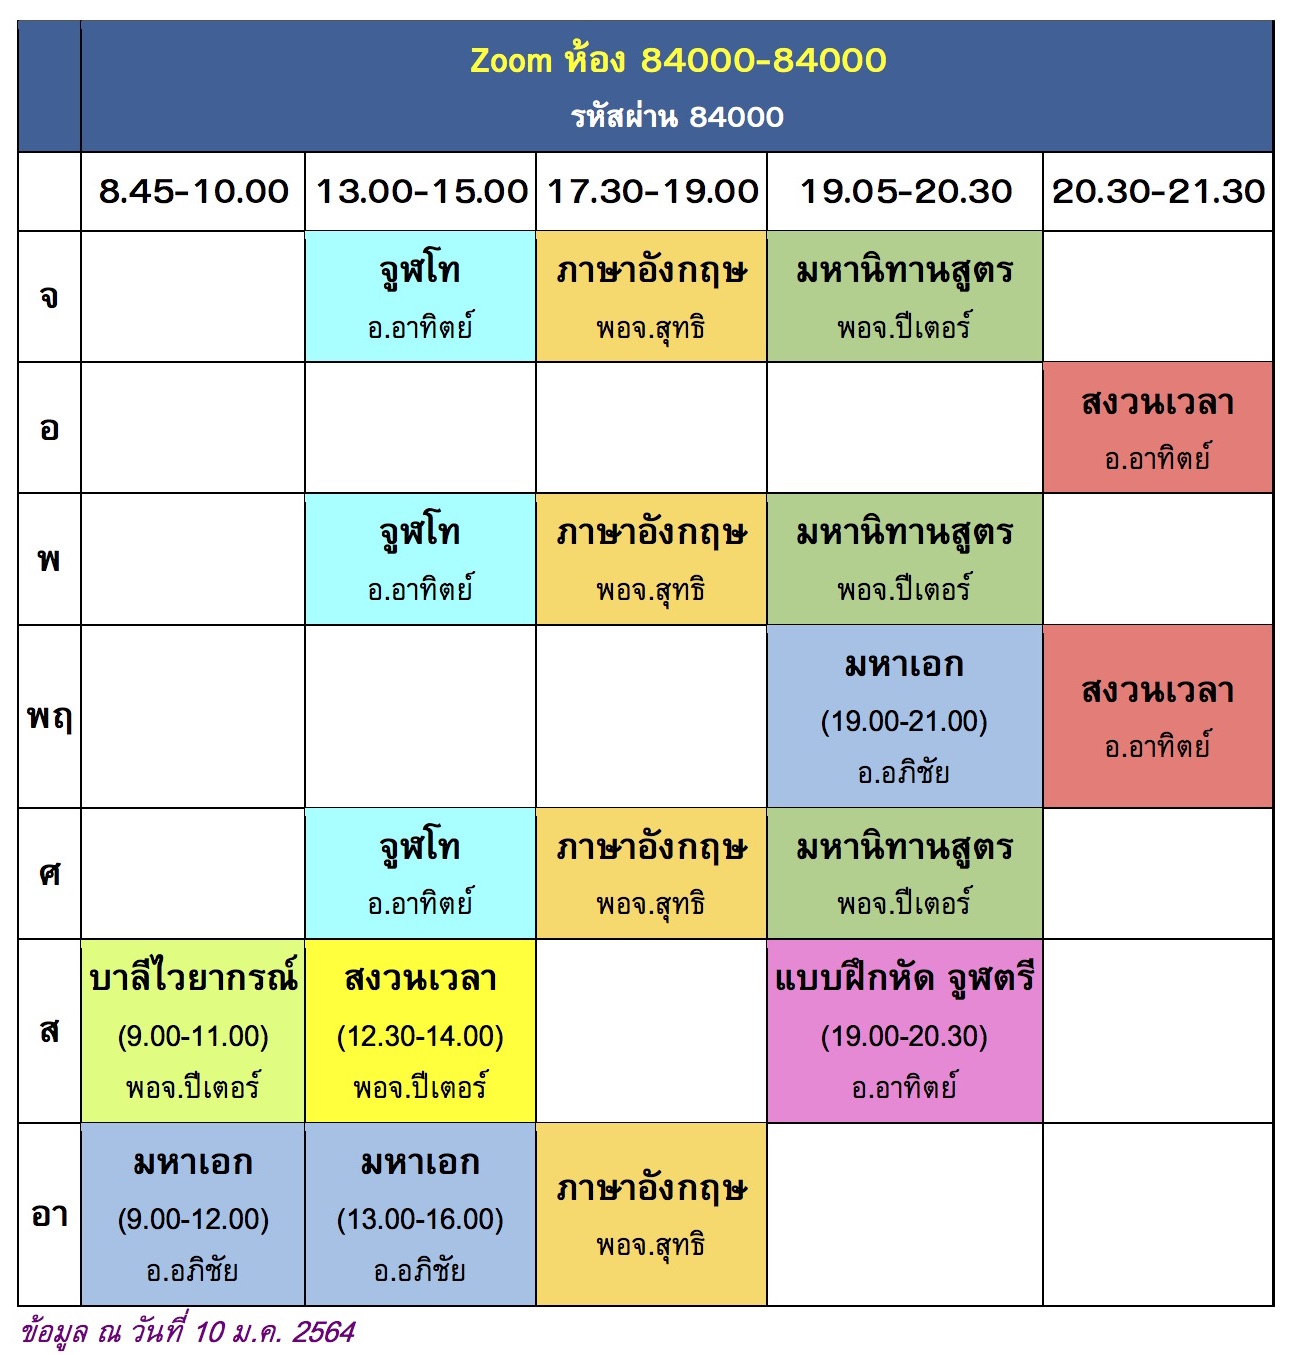
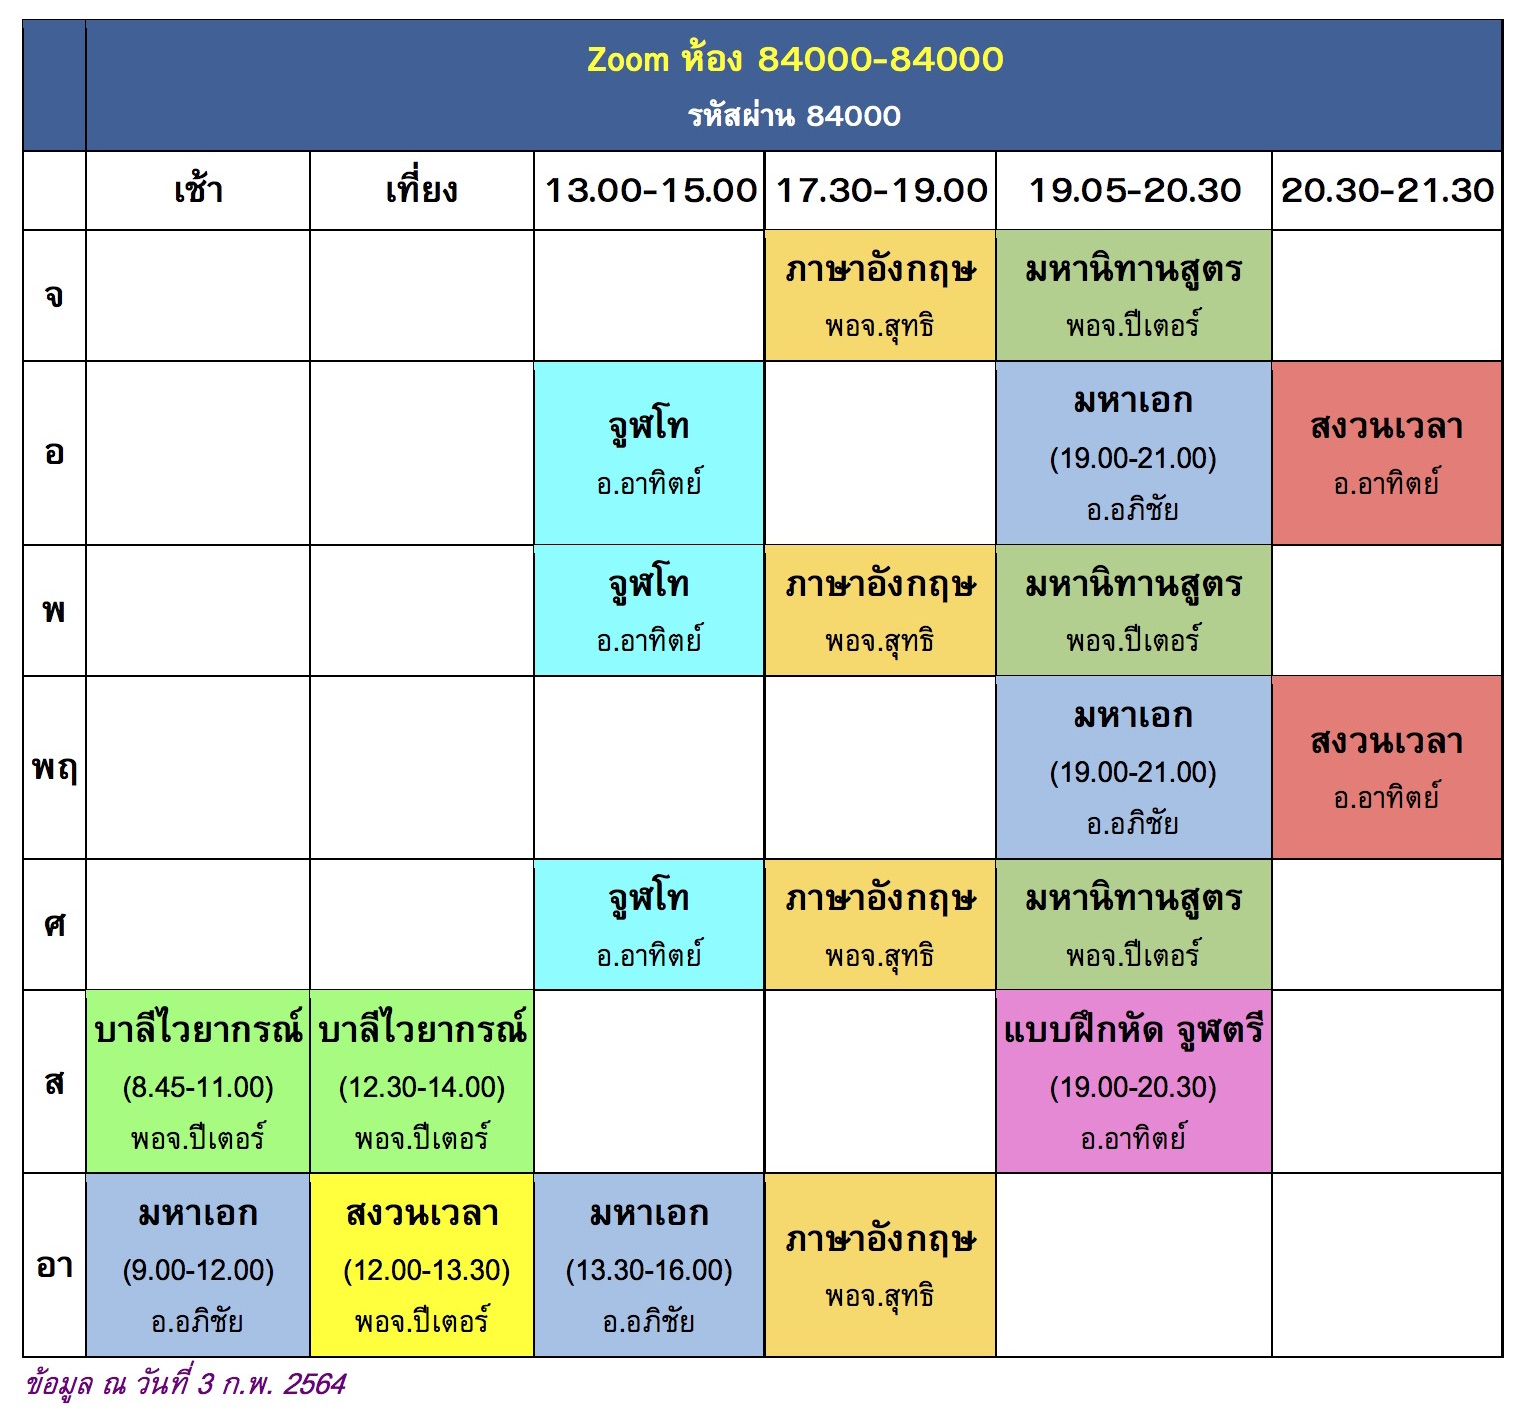
2021-02-04

diff --git a/z/index.html b/z/index.html
@@ -59,8 +59,8 @@
 <B>ปัจจยาการวิภังค์</B>: เลื่อนคลาสวันที่ 15 เม.ย. เป็นวันที่ 14 เม.ย.</SPAN><!---->
 
 <TABLE cellpadding=0 cellspacing=0 align=center><TR valign=top><TD>
-<A href=42000.jpg?0110><IMG border=0 src="42000.jpg?0110" width=500px height=600px /></A>
-<A href=84000.jpg?01102><IMG border=0 src="84000.jpg?01102" width=500px height=600px /></A></TABLE>
+<A href=42000.jpg?0204><IMG border=0 src="42000.jpg?0204" width=500px height=600px /></A>
+<A href=84000.jpg?0204><IMG border=0 src="84000.jpg?0204" width=500px height=600px /></A></TABLE>
 (คลิกที่รูป เพื่อดูตารางสอนที่ใหญ่ขึ้น)<BR/>
 
 <BR/><SPAN style="text-align:center; color:magenta; font-size:22px; font-weight:bold;">ทบทวนย้อนหลัง</SPAN>
@@ -69,14 +69,14 @@
 <BR/><B>พอจ.ดารา</B>
 [<A href=https://www.youtube.com/channel/UC15s7QM8NNNkjC8a994uW_A/videos?view=0&sort=dd&flow=grid>อินทริยยมก จิตตยมก สังขารยมก ธัมมยมก ปัฏฐาน</A>]
 [<A href=https://www.youtube.com/channel/UCQVrgPzwkgulp2pKPiShZkA/videos?view=0&sort=da&flow=grid>อายตนยมก สัจจยมก</A>]
-<BR/><B>พอจ.ปีเตอร์</B>
+<!--<BR/><B>พอจ.ปีเตอร์</B>
 [<A href=https://www.youtube.com/playlist?list=PLN_QsbYd3fL0Vn73pOp6K-pXJ97RKiwFA>แปลขุททกปาฐะ</A>]
 [<A href=https://www.youtube.com/playlist?list=PLN_QsbYd3fL35-FCKNjGUpVlU1d8XFJB1>วิถีจิต</A>]
   [<A href=https://www.youtube.com/playlist?list=PLN_QsbYd3fL3tjpska4hxonq-QFLpOQxO>กิตก์</A>]
   [<A href=https://www.youtube.com/playlist?list=PLN_QsbYd3fL1YD6822QW9wAhWLIookNEY>สมาส</A>]
   [<A href=https://www.youtube.com/playlist?list=PLN_QsbYd3fL2VxZnGkRC8HbAGZrWh6yb3>สนธิ</A>]
   [<A href=https://www.youtube.com/playlist?list=PLN_QsbYd3fL2brwbfoU39B-Y6IUS9c3SX>ตัทธิต</A>]
-<!--<BR/><B>จูฬโท</B>  [<A href=>YouTube</A>]-->
+<BR/><B>จูฬโท</B>  [<A href=>YouTube</A>]-->
 
 
 
